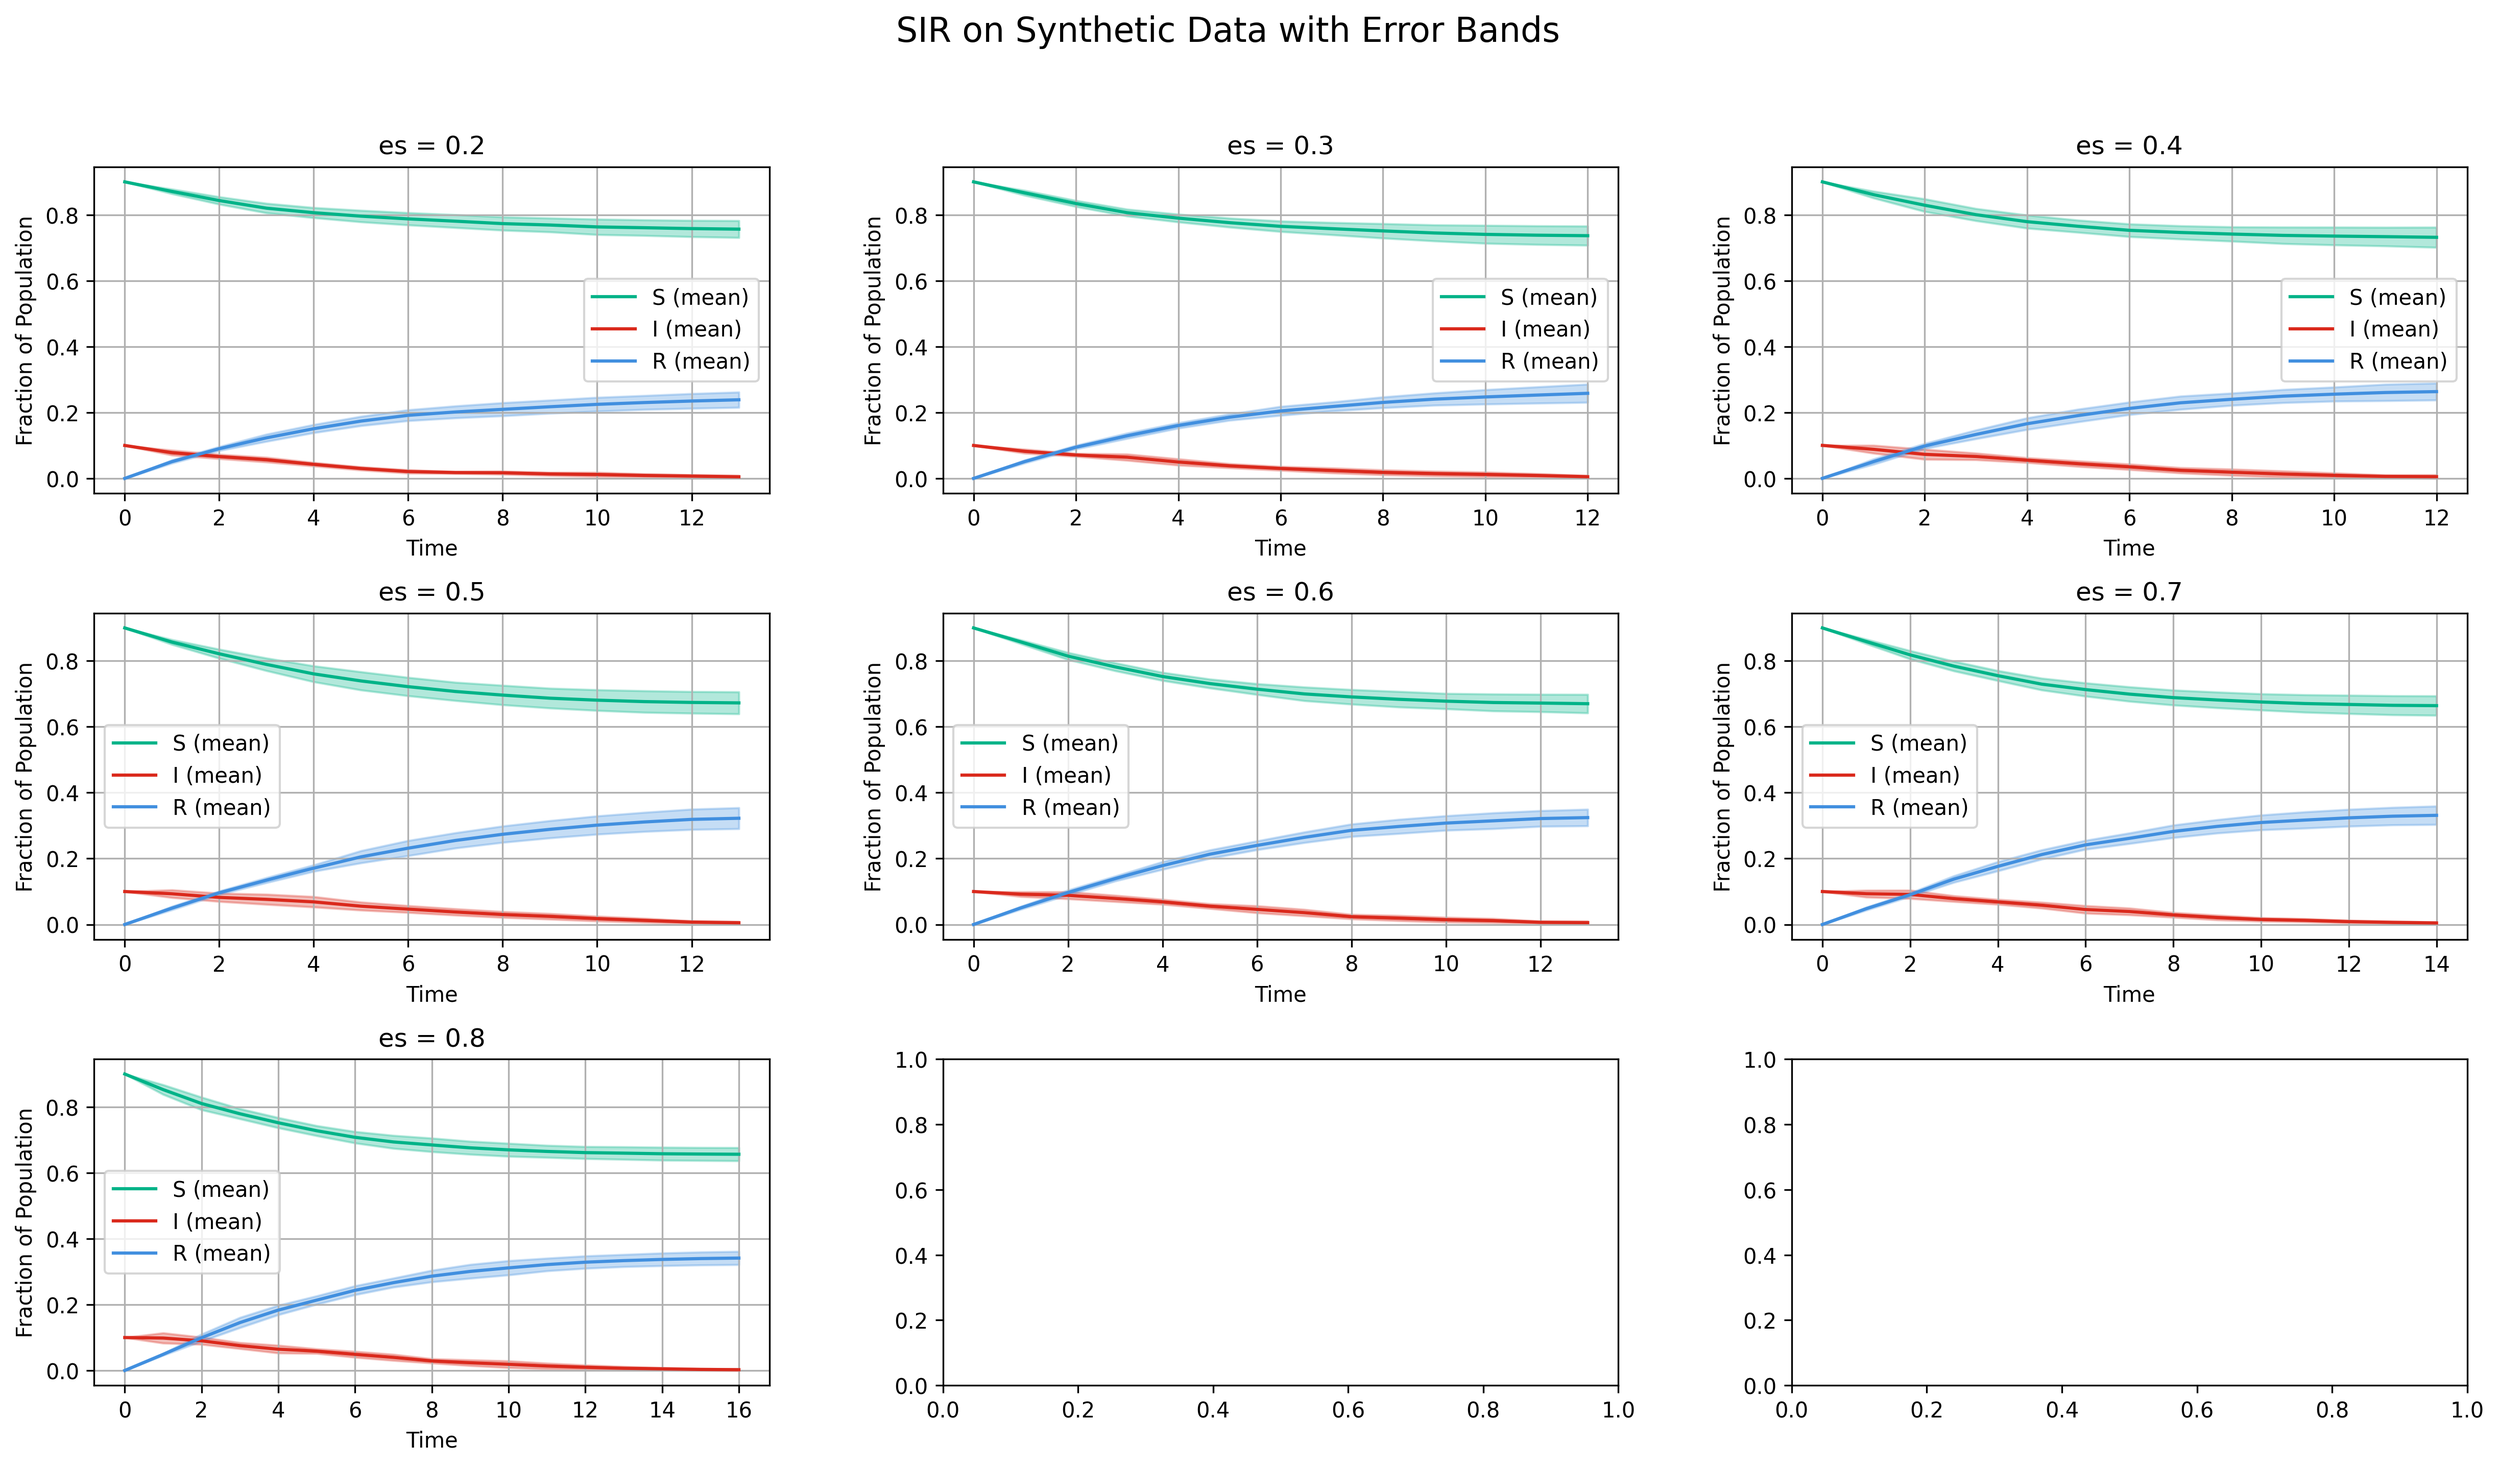
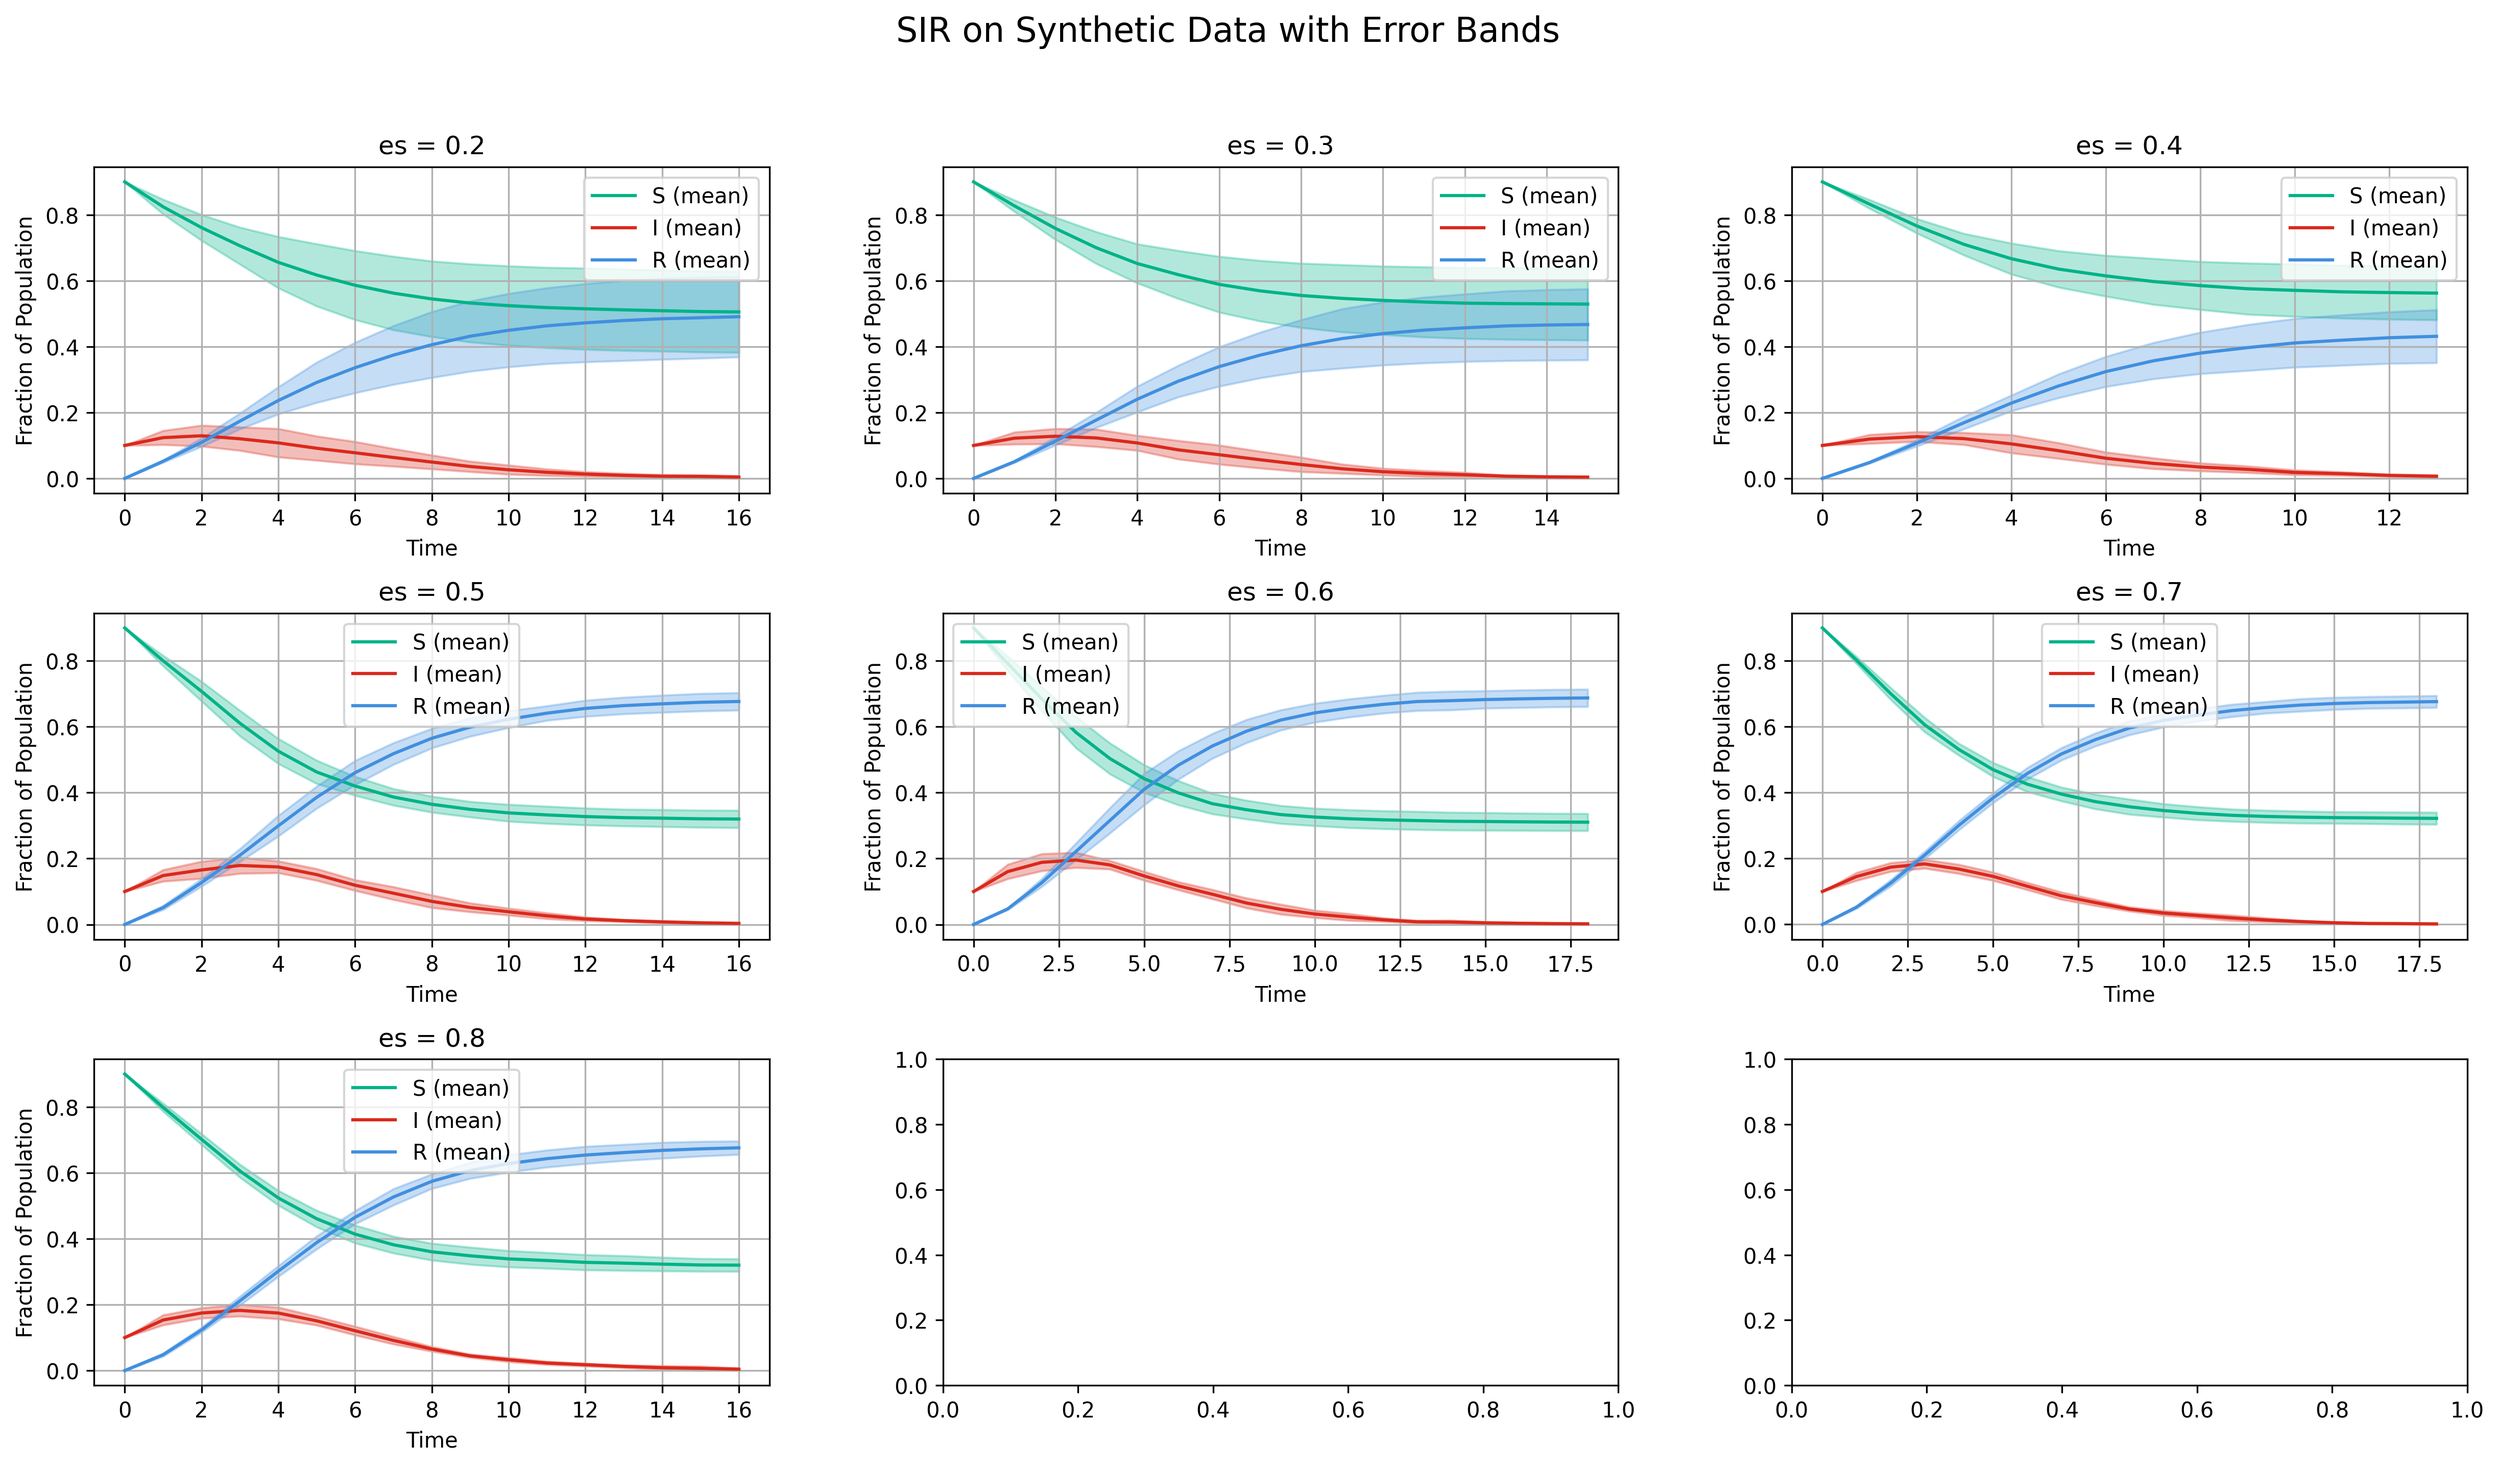
small update for degree

diff --git a/edge_rewiring/dynamic_on_model.py b/edge_rewiring/dynamic_on_model.py
@@ -39,15 +39,24 @@ def run_multiple_SIR_with_errorbands(
     for i in range(num_graphs):
         print(f"Simulation {i+1}/{num_graphs}")
         H = model_generation_es(
-            es=es,
-            approx_num_C=approx_num_C,  # Set high to allow target_num_edges to work
-            num_max_hyperedge=num_max_hyperedge,
-            num_node=num_node,
+            es=0.80432,
+            approx_num_C=11800,  # Set high to allow target_num_edges to work
+            num_max_hyperedge=8010,
+            num_node=242,
             min_size=2,
             max_size=None,
             adjust_es=True,
             compare_interval_smaller_case=10,
             compare_interval_bigger_case=10,
+            # es=es,
+            # approx_num_C=approx_num_C,  # Set high to allow target_num_edges to work
+            # num_max_hyperedge=num_max_hyperedge,
+            # num_node=num_node,
+            # min_size=2,
+            # max_size=None,
+            # adjust_es=True,
+            # compare_interval_smaller_case=10,
+            # compare_interval_bigger_case=10,
         )
 
         es_new = new_edit_simpliciality(H, min_size=2)
@@ -149,7 +158,7 @@ if __name__ == "__main__":
     num_node = int(sys.argv[5])
     gamma = 0.05
     colors = ["#00B388","#DA291C", "#418FDF"]
-    dataset = "contact-high-school"
+    dataset = "contact-primary-school"
     print(f"Running SIR on dataset: {dataset}")
 
     fig, axes = plt.subplots(1, 2, figsize=(16, 6))  # 1 row, 2 columns

diff --git a/edge_rewiring/model_generation.py b/edge_rewiring/model_generation.py
@@ -238,13 +238,13 @@ def model_generation_es(es, approx_num_C, num_max_hyperedge, num_node, min_size=
     # Calculate the average number of induced hyperedges
     C_avg = C_total / num_max_hyperedge
     if es < 0.15:
-        std = 3
+        std = 6.5 #3
     elif es < 0.5:
-        std = 2
+        std = 5.5 #2
     elif es < 0.85:
-        std = 1
+        std = 4.5 #1
     else:
-        std = 0.5
+        std = 3.5 #0.5
     # Print statements for debugging
     # print("edge_total:", edge_total)
     # print("C_total:", C_total)
